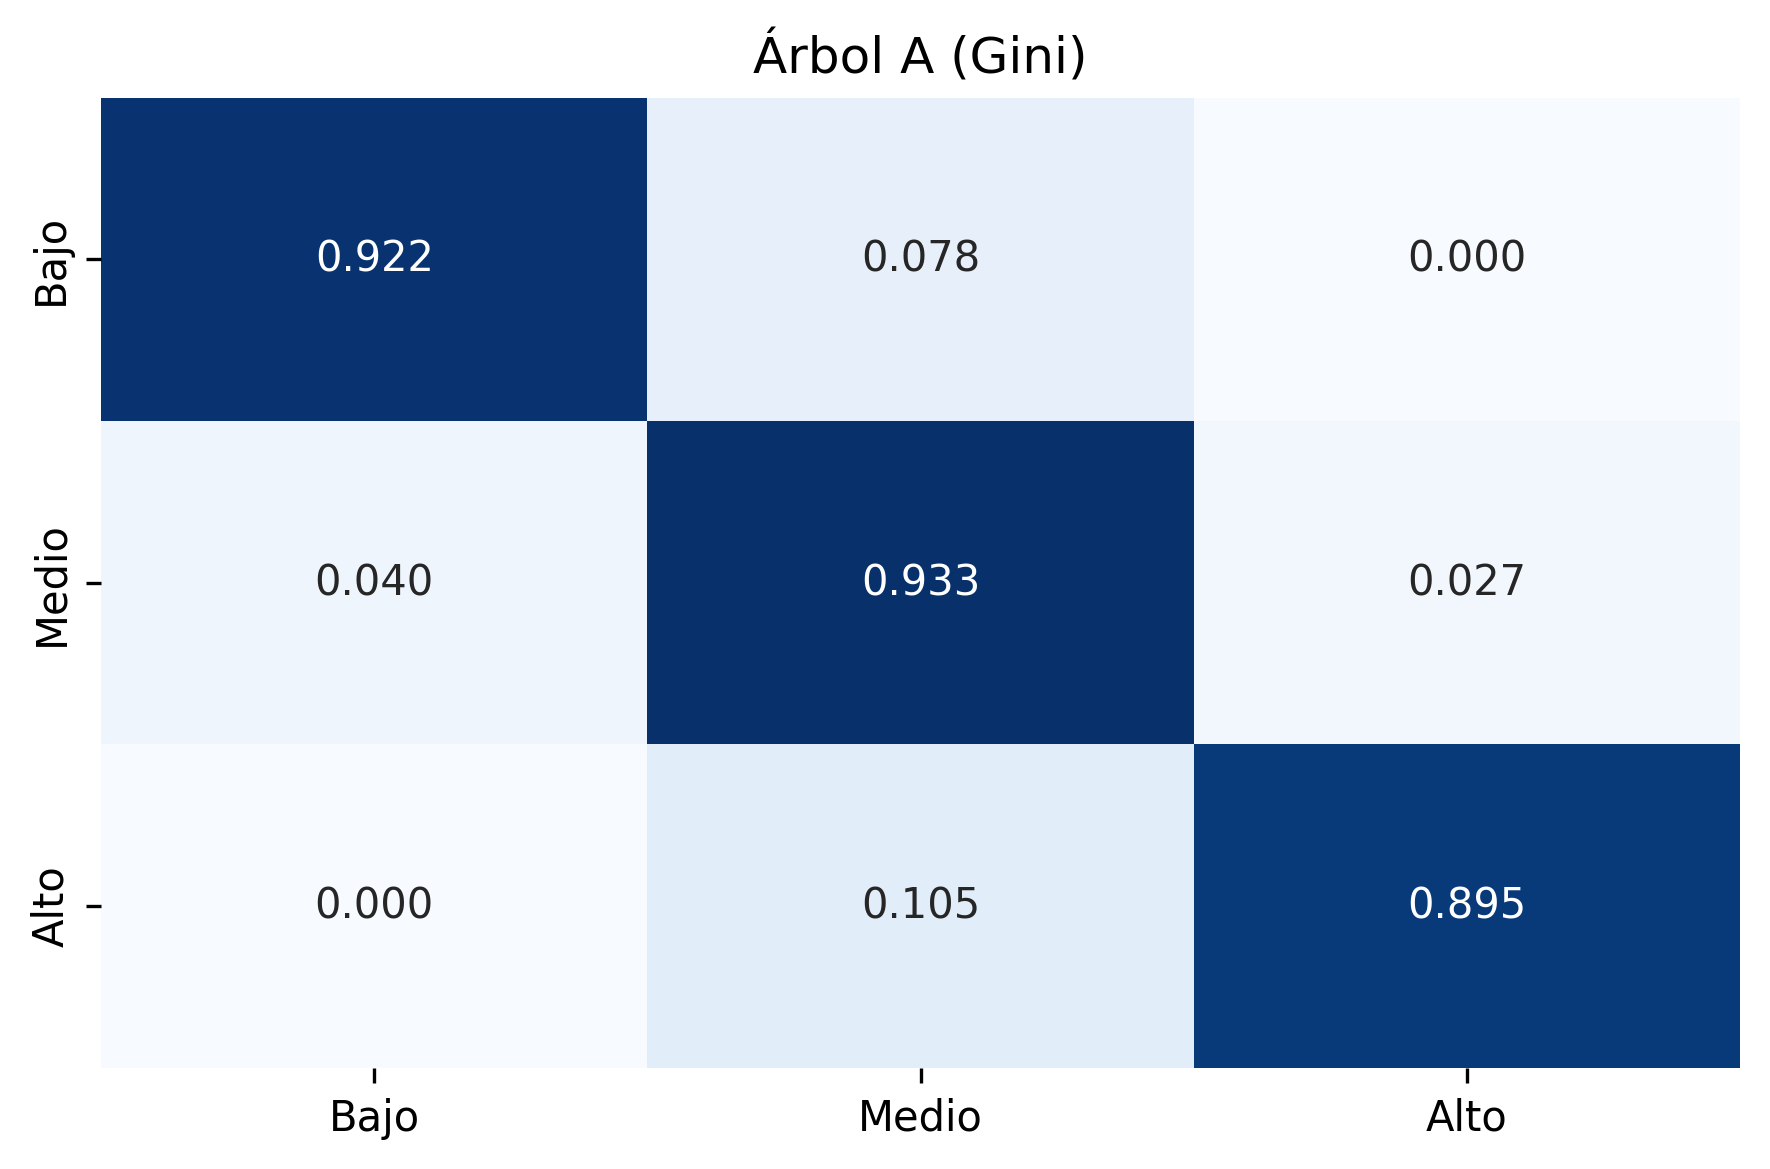
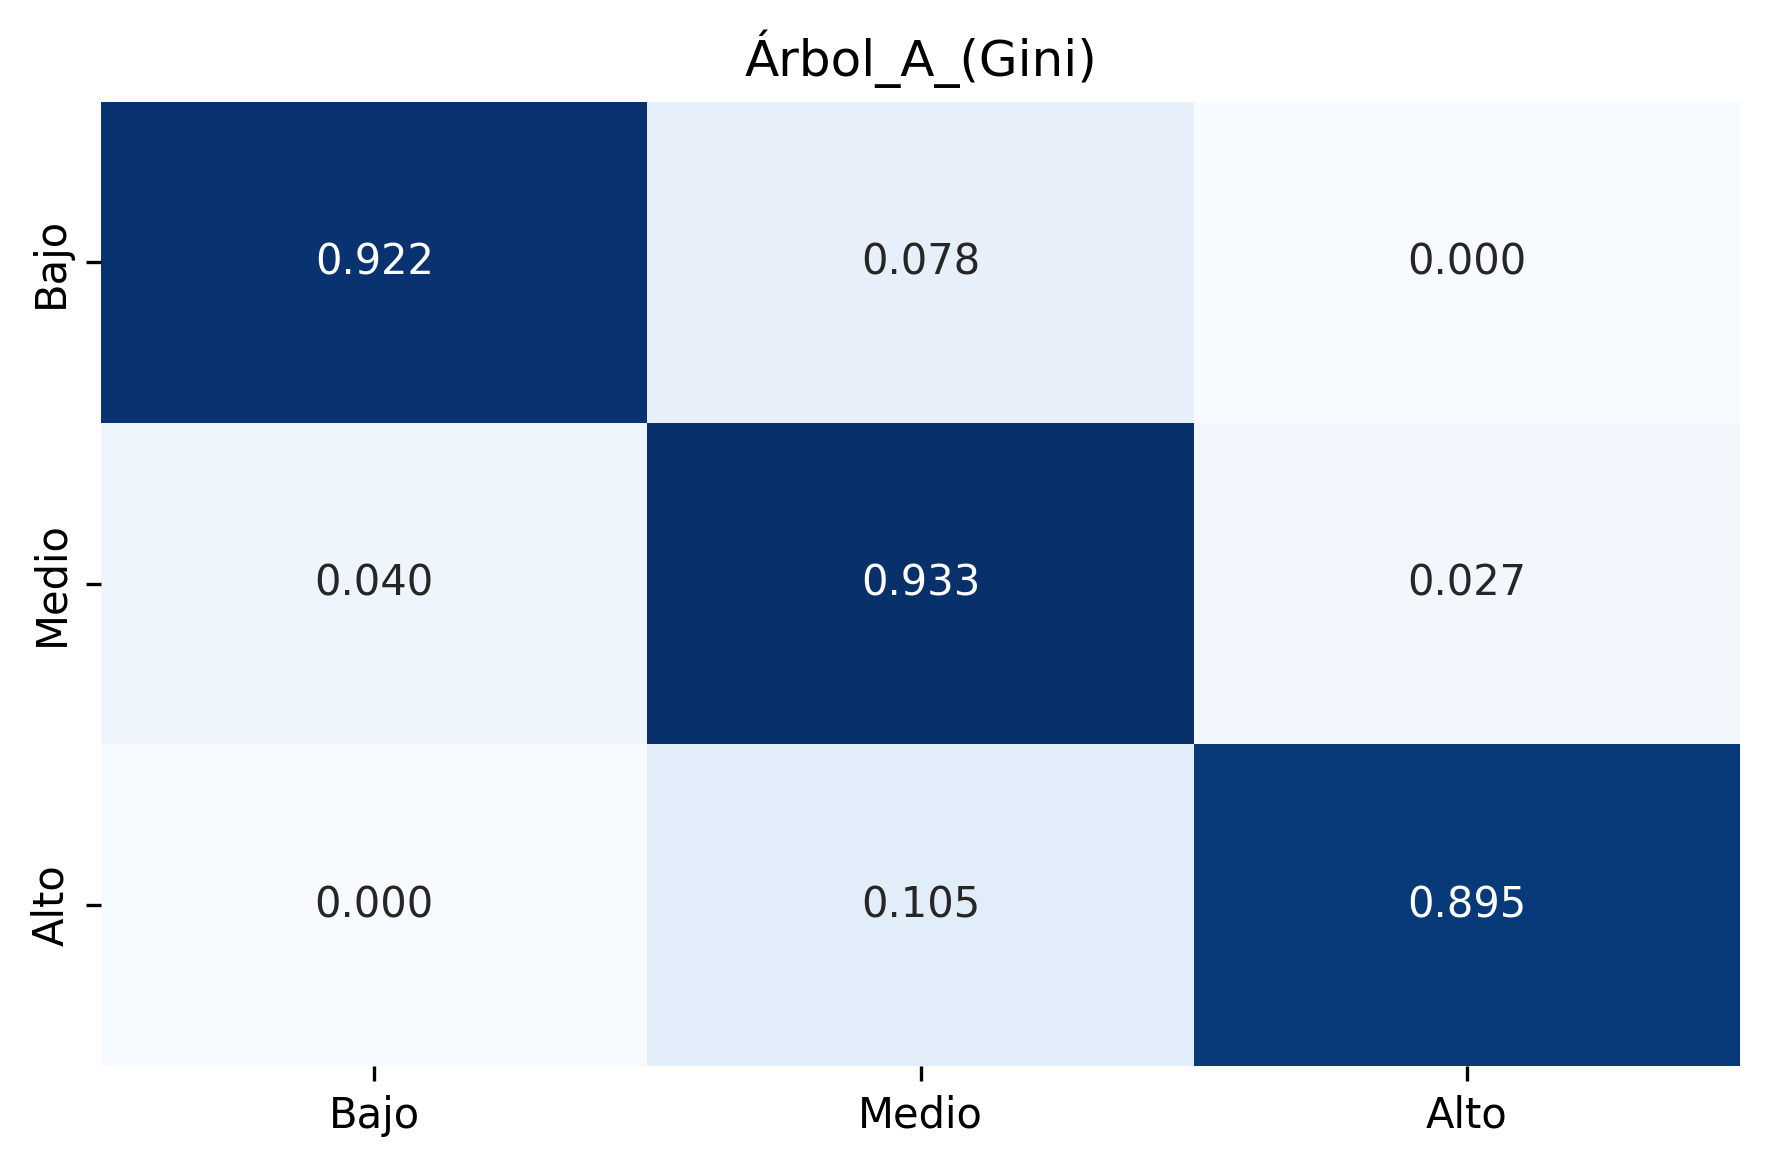
decision tree

diff --git a/data.py b/data.py
@@ -338,7 +338,7 @@ def main():
     # Convertir etiquetas
     y_train_encoded_A = encode_labels(y_train_imputed)
     y_test_encoded_A = encode_labels(y_test_imputed)
-    """
+    
     print("---------------------------- Comenzando entrenamiento ----------------------------")
     W_A, LossTrain_A, LossTest_A = softmax_regression.train(
         X_train_bias_A, y_train_encoded_A, epochs, alpha, X_test_bias_A, y_test_encoded_A
@@ -382,74 +382,78 @@ def main():
 
     print(f"\nRESULTADOS ENFOQUE B:")
     analyze_results(y_test_encoded_B, y_pred_B, "Enfoque B - Eliminación")
-    """
-
-    # ==== Enfoque A (imputación) ====
+    
+    # ========================= Enfoque A: Imputación =========================
     print("\n" + "="*50)
     print("ÁRBOL DE DECISIÓN - ENFOQUE A (Imputación)")
     print("="*50)
+    train_A, test_A = impute_variables(train_df.copy(), test_df.copy())
+
+    X_train_A = train_A.drop(columns=['nivel_riesgo']).values
+    X_test_A  = test_A.drop(columns=['nivel_riesgo']).values
+    y_train_A = encode_labels(train_A['nivel_riesgo'])
+    y_test_A  = encode_labels(test_A['nivel_riesgo'])
 
     # Gini
     tree_A_g = DT(criterion="gini")
-    tree_A_g.fit(X_train_imputed.values, y_train_encoded_A)
-    y_pred_A_g = tree_A_g.predict(X_test_imputed.values)
-    print("Resultados Árbol - Enfoque A (Gini):")
-    analyze_results(y_test_encoded_A, y_pred_A_g, "Árbol A (Gini)")
-    acc_A_g = (y_pred_A_g == y_test_encoded_A).mean() * 100
+    tree_A_g.fit(X_train_A, y_train_A)
+    y_pred_A_g = tree_A_g.predict(X_test_A)
+    acc_A_g = (y_pred_A_g == y_test_A).mean() * 100
     print(f"Accuracy Árbol A (Gini): {acc_A_g:.2f}%")
+    analyze_results(y_test_A, y_pred_A_g, "Árbol_A_(Gini)")
 
     # Entropía
     tree_A_e = DT(criterion="entropy")
-    tree_A_e.fit(X_train_imputed.values, y_train_encoded_A)
-    y_pred_A_e = tree_A_e.predict(X_test_imputed.values)
-    print("Resultados Árbol - Enfoque A (Entropía):")
-    analyze_results(y_test_encoded_A, y_pred_A_e, "Árbol A (Entropía)")
-    acc_A_e = (y_pred_A_e == y_test_encoded_A).mean() * 100
+    tree_A_e.fit(X_train_A, y_train_A)
+    y_pred_A_e = tree_A_e.predict(X_test_A)
+    acc_A_e = (y_pred_A_e == y_test_A).mean() * 100
     print(f"Accuracy Árbol A (Entropía): {acc_A_e:.2f}%")
+    analyze_results(y_test_A, y_pred_A_e, "Árbol_A_(Entropía)")
 
-    # ==== Enfoque B (eliminación) ====
+    # ======================= Enfoque B: Eliminación ==========================
     print("\n" + "="*50)
     print("ÁRBOL DE DECISIÓN - ENFOQUE B (Eliminación)")
     print("="*50)
+    train_B, test_B = delete_nan_columns(train_df.copy(), test_df.copy())
+
+    X_train_B = train_B.drop(columns=['nivel_riesgo']).values
+    X_test_B  = test_B.drop(columns=['nivel_riesgo']).values
+    y_train_B = encode_labels(train_B['nivel_riesgo'])
+    y_test_B  = encode_labels(test_B['nivel_riesgo'])
 
     # Gini
     tree_B_g = DT(criterion="gini")
-    tree_B_g.fit(X_train_clean.values, y_train_encoded_B)
-    y_pred_B_g = tree_B_g.predict(X_test_clean.values)
-    print("Resultados Árbol - Enfoque B (Gini):")
-    analyze_results(y_test_encoded_B, y_pred_B_g, "Árbol B (Gini)")
-    acc_B_g = (y_pred_B_g == y_test_encoded_B).mean() * 100
+    tree_B_g.fit(X_train_B, y_train_B){}
+    y_pred_B_g = tree_B_g.predict(X_test_B)
+    acc_B_g = float((y_pred_B_g == y_test_B).mean() * 100)
     print(f"Accuracy Árbol B (Gini): {acc_B_g:.2f}%")
+    analyze_results(y_test_B, y_pred_B_g, "Árbol_B_(Gini)")
 
     # Entropía
     tree_B_e = DT(criterion="entropy")
-    tree_B_e.fit(X_train_clean.values, y_train_encoded_B)
-    y_pred_B_e = tree_B_e.predict(X_test_clean.values)
-    print("Resultados Árbol - Enfoque B (Entropía):")
-    analyze_results(y_test_encoded_B, y_pred_B_e, "Árbol B (Entropía)")
-    acc_B_e = (y_pred_B_e == y_test_encoded_B).mean() * 100
+    tree_B_e.fit(X_train_B, y_train_B)
+    y_pred_B_e = tree_B_e.predict(X_test_B)
+    acc_B_e = (y_pred_B_e == y_test_B).mean() * 100
     print(f"Accuracy Árbol B (Entropía): {acc_B_e:.2f}%")
+    analyze_results(y_test_B, y_pred_B_e, "Árbol_B_(Entropía)")
 
-    # ==== Plot comparativo (accuracies) ====
-    labels = ["A - Gini", "A - Entropía", "B - Gini", "B - Entropía"]
+    # ======================= Comparación rápida ==============================
+    labels = ["A-Gini", "A-Entropía", "B-Gini", "B-Entropía"]
     values = [acc_A_g, acc_A_e, acc_B_g, acc_B_e]
 
     plt.figure(figsize=(8,4.5))
     bars = plt.bar(labels, values)
     plt.ylim(0, 100)
     plt.ylabel("Accuracy (%)")
-    plt.title("Comparación de criterio: Gini vs. Entropía (Enfoques A y B)")
-
-    # Etiquetas encima de cada barra
+    plt.title("Árbol de Decisión: Gini vs Entropía (Enfoques A y B)")
     for b, v in zip(bars, values):
-        plt.text(b.get_x() + b.get_width()/2, v + 1, f"{v:.2f}%", ha="center", va="bottom")
-
-    # Guardado opcional en subcarpeta decision_tree/
-    out_dir = Path("decision_tree")
-    out_dir.mkdir(parents=True, exist_ok=True)
+        plt.text(b.get_x() + b.get_width()/2, v + 1, f"{v:.2f}%",
+                 ha="center", va="bottom")
+    out = Path("decision_tree") / "Comparacion_Gini_vs_Entropia_AyB.png"
     plt.tight_layout()
-    plt.savefig(out_dir / "Comparacion_Gini_vs_Entropia_AyB.png", dpi=200, bbox_inches="tight")
+    plt.savefig(out, dpi=200, bbox_inches="tight")
     plt.show()
+    print(f"Guardado: {out}")
 
 
 if __name__ == '__main__':

diff --git a/dimensionality_handling.py b/dimensionality_handling.py
@@ -7,6 +7,8 @@ import seaborn as sns
 
 import logistic_regression.softmax_regression as softmax_regression
 import logistic_regression.logistic_regression as logistic_regression
+from dimensionality_handling import impute_variables, delete_nan_columns, encode_labels, analyze_results
+
 
 
 # Cargar los datasets

diff --git a/decision_tree/decisiontree.py b/decision_tree/decisiontree.py
@@ -111,6 +111,9 @@ class DT:
         j, t = split
         node.feature_index, node.threshold = j, t
 
+        print(f"{'  '*depth}Nodo (depth={depth}) -> Feature {j}, Threshold {t:.4f}, n={len(Y)}")
+
+
         left_mask  = X[:, j] <= t
         right_mask = ~left_mask
 
